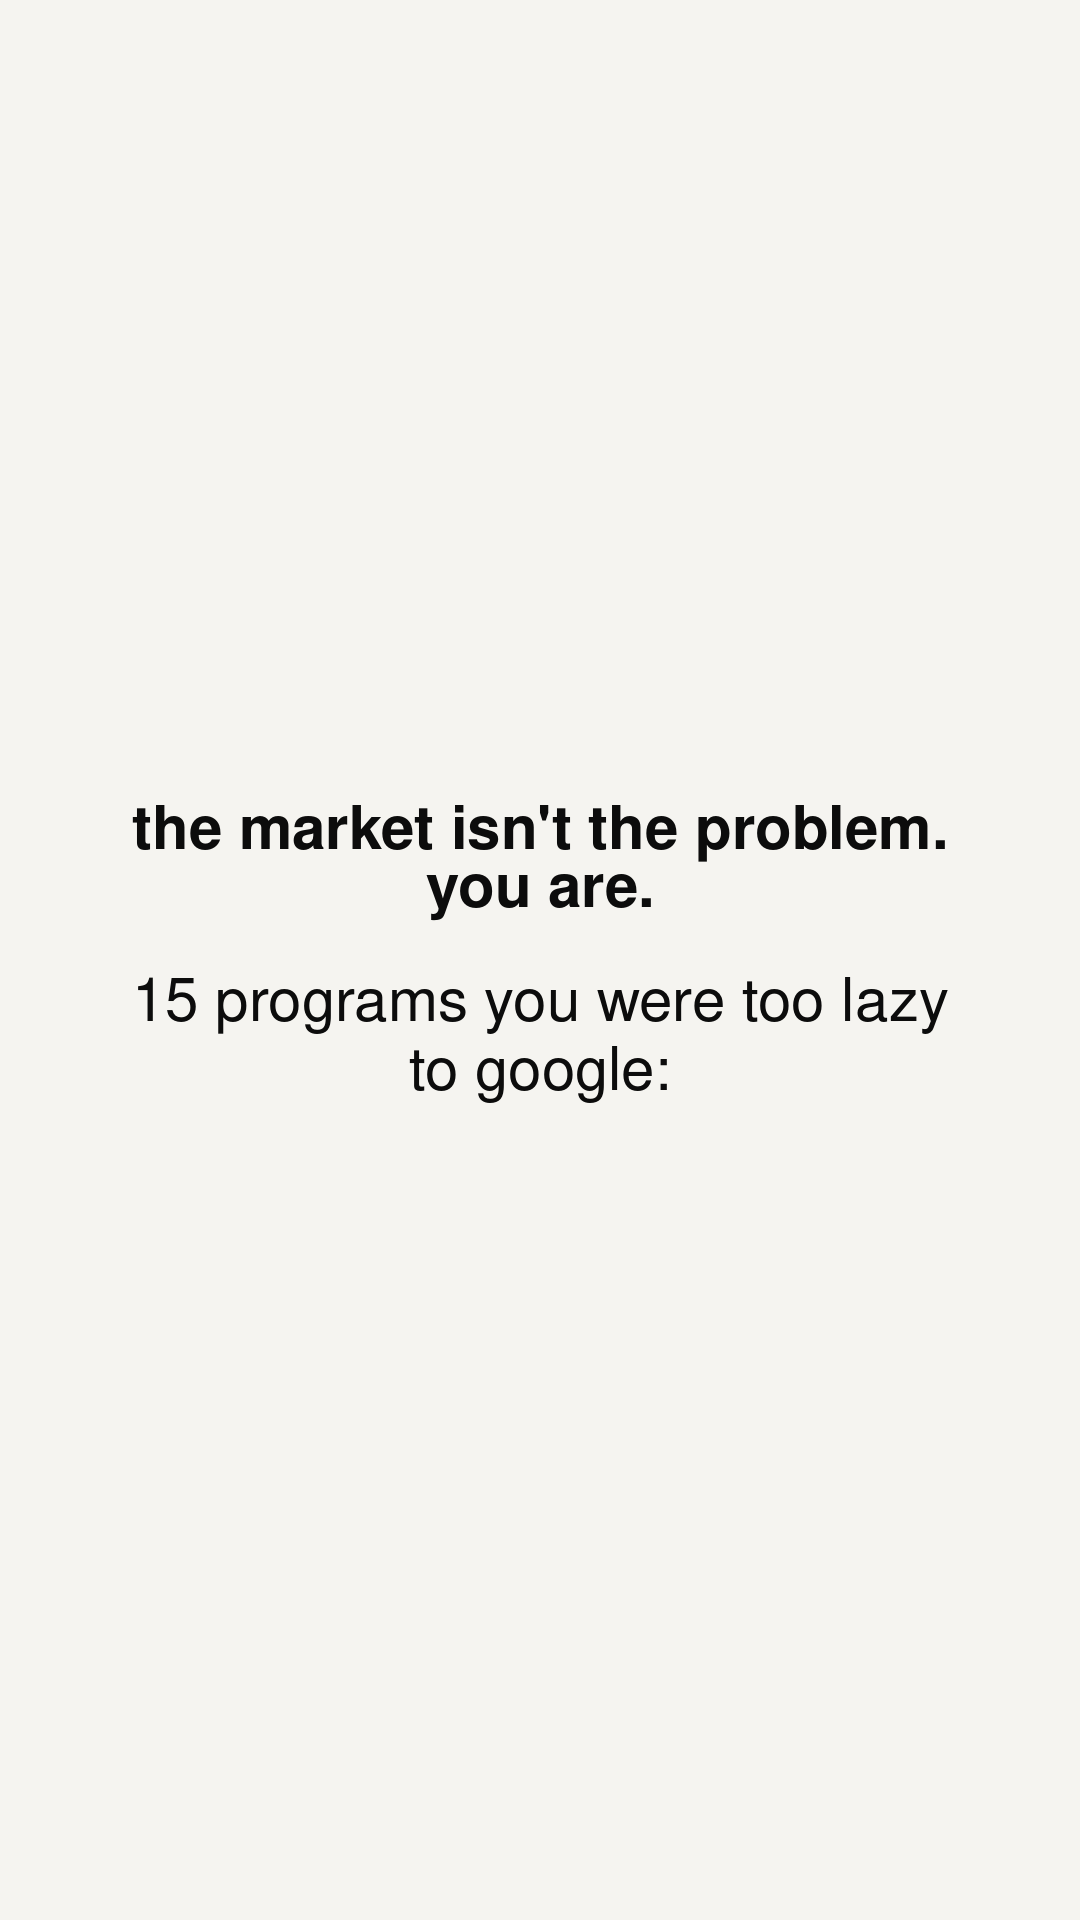
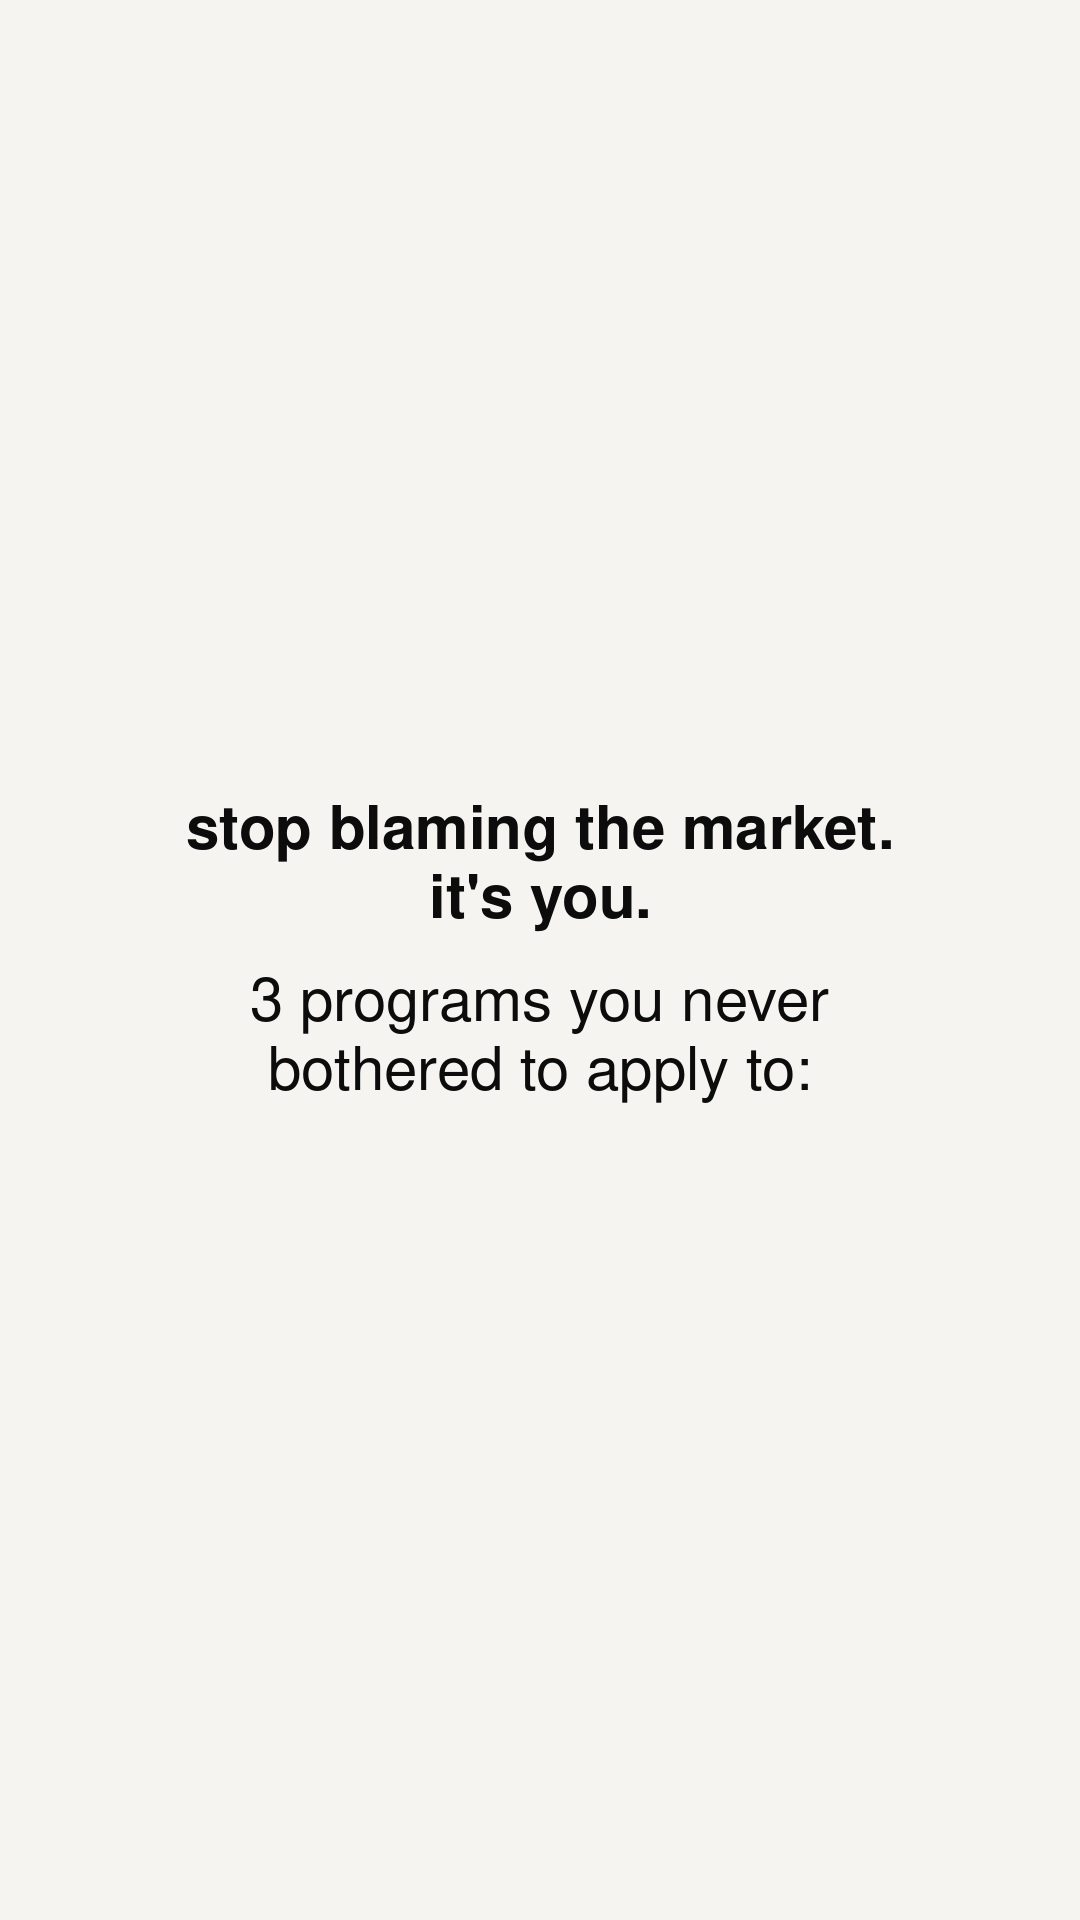
Split 'you are' cover into distinct light and dark 3-program versions
Claude-Session: https://claude.ai/code/session_01Xo7HnJGz5n5KZLb1Sbzz9R

Changed region(s): [[0.1222, 0.4062, 0.8861, 0.5938]]

diff --git a/fellowship-slides/make_slides.py b/fellowship-slides/make_slides.py
@@ -25,8 +25,6 @@ COVER_SIZE = 60
 COVERS = {
     "complain": [("you complain about", "bold"), ("the job market", "bold"), None,
                  ("but haven't heard", "regular"), ("of these?", "regular")],
-    "you-are": [("the market isn't the problem.", "bold"), ("you are.", "bold"), None,
-                ("15 programs you were too lazy", "regular"), ("to google:", "regular")],
     "bet": [("i bet you've", "bold"), ("never heard", "bold"), ("of these.", "bold")],
     "cooked": [("stop saying the", "bold"), ("market is cooked.", "bold"), None,
                ("you haven't applied", "regular"), ("to these yet.", "regular")],
@@ -165,6 +163,14 @@ def render(program, index):
     return out, len(lines)
 
 
+# One-off covers rendered on a single plain background, worded differently so
+# the light and dark posts aren't identical.
+SINGLE_COVERS = {
+    "you-are-dark": ("black", [("the market isn't the problem.", "bold"), ("you are.", "bold"), None,
+                               ("3 programs you were too lazy", "regular"), ("to google:", "regular")]),
+    "you-are-light": ("light", [("stop blaming the market.", "bold"), ("it's you.", "bold"), None,
+                                ("3 programs you never", "regular"), ("bothered to apply to:", "regular")]),
+}
 PLAIN = {"black": ((0, 0, 0), (255, 255, 255)), "light": ((245, 244, 240), (12, 12, 12))}
 
 
@@ -204,6 +210,9 @@ def main():
             for plain in PLAIN:
                 alt = ROOT / "output" / "cover-options" / f"cover-{name}-{plain}.png"
                 print(render_cover(name, lines, alt, plain=plain).relative_to(ROOT))
+        for name, (plain, lines) in SINGLE_COVERS.items():
+            out = ROOT / "output" / "cover-options" / f"cover-{name}.png"
+            print(render_cover(name, lines, out, plain=plain).relative_to(ROOT))
     for i, program in enumerate(programs, 1):
         if wanted and program["slug"] not in wanted:
             continue
